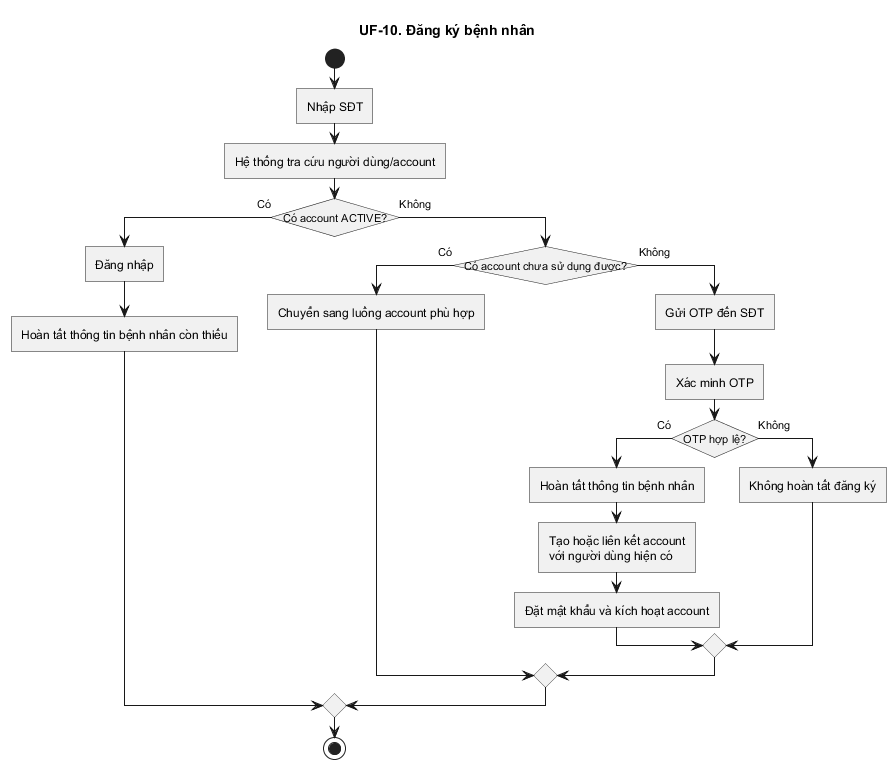
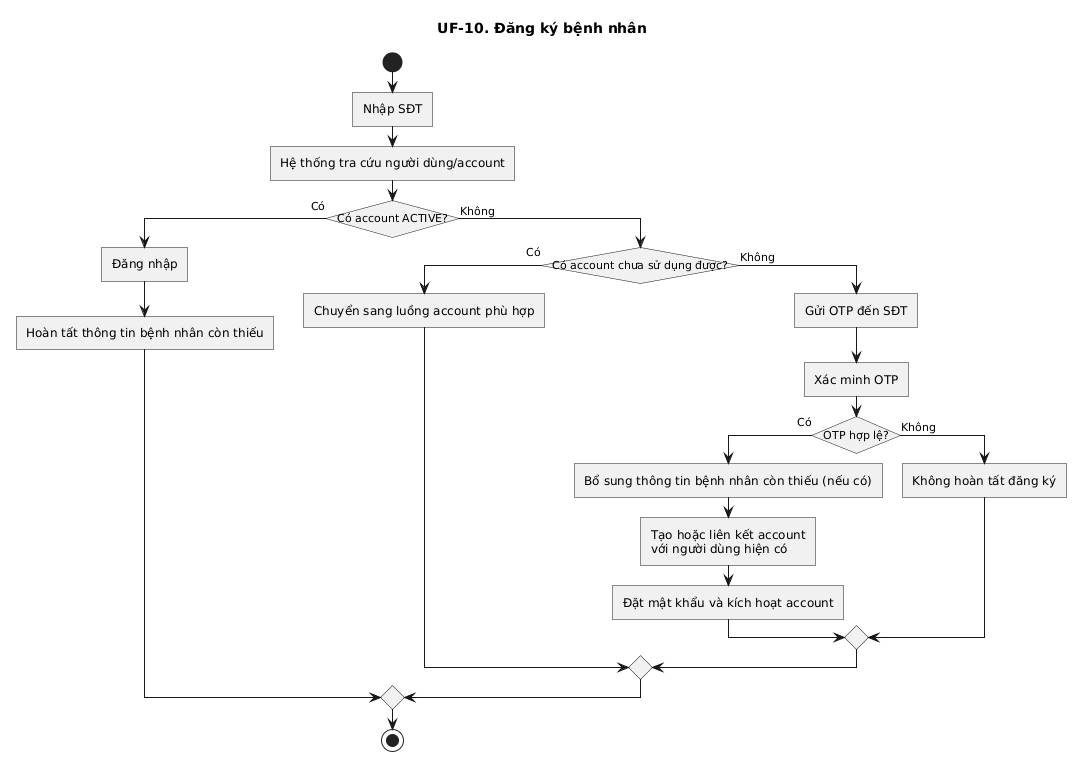
update phrasing and fix NFR traceability

diff --git a/doc/NFR.md b/doc/NFR.md
@@ -4,7 +4,7 @@
 
 | Mã | Nội dung yêu cầu | Chỉ tiêu cụ thể |
 | --- | --- | --- |
-| NFR-001 | Thời gian phản hồi báo cáo | Báo cáo FR-M04-001 hiển thị trong dưới 2 giây trên bộ dữ liệu kiểm thử gồm 1.000 lịch hẹn và 5 bác sĩ. |
+| NFR-001 | Thời gian phản hồi báo cáo | Báo cáo FR-M04-001 phải hiển thị kết quả trong dưới 2 giây. |
 
 ### 3.2.2. Yêu cầu về bảo mật (Security)
 
@@ -12,33 +12,21 @@
 | --- | --- | --- |
 | NFR-002 | Kiểm soát truy cập theo vai trò | Mọi yêu cầu ngoài phạm vi các vai trò được gán theo FR-M01-004 phải bị từ chối và không được làm lộ hoặc thay đổi dữ liệu trái quyền. |
 | NFR-003 | Giới hạn dữ liệu bệnh nhân | Bác sĩ chỉ truy cập thông tin cần thiết của bệnh nhân có lịch được phân công cho chính bác sĩ đó; dữ liệu bệnh nhân ngoài phạm vi này phải bị từ chối. |
-| NFR-012 | Bảo vệ thông tin đăng nhập | Mật khẩu không được lưu hoặc trả về ở dạng văn bản rõ. |
-| NFR-013 | Xác minh số điện thoại | OTP dùng để kích hoạt tài khoản, khôi phục mật khẩu hoặc kích hoạt lại tài khoản phải có thời hạn ngắn, chỉ dùng một lần và chỉ hợp lệ cho đúng mục đích đã cấp. OTP sai, hết hạn hoặc đã sử dụng không được phép hoàn tất thao tác tương ứng. |
+| NFR-004 | Bảo vệ thông tin đăng nhập | Mật khẩu không được lưu hoặc trả về ở dạng văn bản rõ. |
+| NFR-005 | Xác minh số điện thoại | OTP dùng để kích hoạt tài khoản, khôi phục mật khẩu hoặc kích hoạt lại tài khoản phải có thời hạn cấu hình được, chỉ dùng một lần, chỉ hợp lệ cho đúng mục đích đã cấp và có giới hạn số lần xác minh sai. OTP sai, hết hạn, đã sử dụng, sai mục đích hoặc vượt giới hạn thử không được phép hoàn tất thao tác tương ứng. |
 
 ### 3.2.3. Yêu cầu về độ tin cậy (Reliability)
 
 | Mã | Nội dung yêu cầu | Chỉ tiêu cụ thể |
 | --- | --- | --- |
-| NFR-004 | Không lưu lịch chồng lấn | Sau thao tác tạo, xác nhận hoặc đổi lịch, không tồn tại hai lịch `PENDING`/`CONFIRMED` bị overlap cho cùng bệnh nhân. Với bác sĩ, `PENDING` đã gán bác sĩ và `CONFIRMED` là các lịch giữ slot và không được overlap. Với hai yêu cầu xung đột đồng thời, tối đa một yêu cầu được ghi thành công. |
-| NFR-005 | Đủ dấu vết thay đổi | 100% thay đổi trạng thái, bác sĩ hoặc thời gian thành công phải có người thực hiện và thời điểm; thao tác bị từ chối không tạo lịch sử. |
-| NFR-006 | Thông báo lịch hẹn không phụ thuộc kênh ngoài | Các sự kiện xác nhận, đổi và hủy lịch phải có thông báo trong ứng dụng; email/SMS thông báo lịch hẹn không phải điều kiện để hoàn tất workflow. |
+| NFR-006 | Không lưu lịch chồng lấn | Sau thao tác tạo, xác nhận hoặc đổi lịch, không tồn tại hai lịch `PENDING`/`CONFIRMED` bị overlap cho cùng bệnh nhân. Với bác sĩ, `PENDING` đã gán bác sĩ và `CONFIRMED` là các lịch giữ slot và không được overlap. Với hai yêu cầu xung đột đồng thời, tối đa một yêu cầu được ghi thành công. |
+| NFR-007 | Đủ dấu vết thay đổi | 100% thay đổi trạng thái, bác sĩ hoặc thời gian thành công phải có người thực hiện và thời điểm; thao tác bị từ chối không tạo lịch sử. |
+| NFR-008 | Thông báo lịch hẹn không phụ thuộc kênh ngoài | Các sự kiện xác nhận, đổi và hủy lịch phải có thông báo trong ứng dụng; email/SMS thông báo lịch hẹn không phải điều kiện để hoàn tất workflow. |
 
 ### 3.2.4. Yêu cầu về khả dụng (Usability)
 
 | Mã | Nội dung yêu cầu | Chỉ tiêu cụ thể |
 | --- | --- | --- |
-| NFR-007 | Thời gian thao tác của lễ tân | Khi đã có đủ thông tin và phương án hợp lệ, lễ tân hoàn tất tạo hoặc đổi lịch trong không quá 60 giây tương tác trên hệ thống. |
-| NFR-008 | Hoàn tất workflow | Các luồng đăng nhập, đăng ký/kích hoạt, khôi phục mật khẩu, kích hoạt lại tài khoản, đặt, xác nhận, đổi, hủy và hoàn thành lịch phải thực hiện được từ đầu đến cuối mà không tạo hồ sơ trùng, mất dữ liệu hoặc vi phạm phân quyền/ràng buộc lịch. |
-| NFR-009 | Một ứng dụng web | Năm vai trò thực hiện các chức năng của mình trên cùng một ứng dụng web; MVP không yêu cầu ứng dụng mobile native riêng. |
-
-### 3.2.5. Quy mô kiểm chứng MVP
-
-| Mã | Nội dung yêu cầu | Chỉ tiêu cụ thể |
-| --- | --- | --- |
-| NFR-010 | Quy mô kiểm chứng MVP | Baseline hiệu năng được kiểm trên 1.000 lịch hẹn và 5 bác sĩ; đây là quy mô kiểm thử của MVP, không phải cam kết production. |
-
-### 3.2.6. Yêu cầu về bảo trì (Maintainability)
-
-| Mã | Nội dung yêu cầu | Chỉ tiêu cụ thể |
-| --- | --- | --- |
-| NFR-011 | Theo dõi lỗi đến khi xử lý | Mỗi lỗi phát hiện khi kiểm thử FR phải có mã, mô tả và kết quả xử lý; chỉ đóng khi kết quả sửa đã được kiểm tra lại. |
+| NFR-009 | Thời gian thao tác của lễ tân | Khi đã có đủ thông tin và phương án hợp lệ, lễ tân hoàn tất tạo hoặc đổi lịch trong không quá 60 giây tương tác trên hệ thống. |
+| NFR-010 | Hoàn tất workflow | Các luồng đăng nhập, đăng ký/kích hoạt, khôi phục mật khẩu, kích hoạt lại tài khoản, đặt, xác nhận, đổi, hủy và hoàn thành lịch phải thực hiện được từ đầu đến cuối mà không tạo hồ sơ trùng, mất dữ liệu hoặc vi phạm phân quyền/ràng buộc lịch. |
+| NFR-011 | Một ứng dụng web | Năm vai trò thực hiện các chức năng của mình trên cùng một ứng dụng web; MVP không yêu cầu ứng dụng mobile native riêng. |

diff --git a/doc/FR.md b/doc/FR.md
@@ -22,7 +22,7 @@
 | FR-M02-005 | Gán bác sĩ và xác nhận | Lễ tân xác nhận lịch `PENDING`. Nếu lịch chưa có bác sĩ, lễ tân phải chọn một bác sĩ phù hợp; hệ thống kiểm tra lại điều kiện lịch trước khi chuyển sang `CONFIRMED`. | Cao |
 | FR-M02-006 | Tạo lịch đã xác nhận | Lễ tân được tạo trực tiếp lịch `CONFIRMED` khi đã có hồ sơ bệnh nhân, dịch vụ, bác sĩ và thời gian hợp lệ. Các điều kiện về năng lực, ca làm việc và xung đột lịch phải được kiểm tra trước khi lưu. | Trung bình |
 | FR-M02-007 | Chặn trùng lịch | Hệ thống không cho phép hai lịch `PENDING`/`CONFIRMED` của cùng bệnh nhân bị chồng lấn và không cho phép một bác sĩ có hai lịch đang giữ slot bị chồng lấn. Quy tắc áp dụng khi tạo, xác nhận và đổi lịch. | Cao |
-| FR-M02-008 | Ràng buộc khung giờ của lịch hẹn | Lịch có bác sĩ chỉ hợp lệ khi toàn bộ thời lượng khám nằm trong ca làm việc và không giao với khoảng thời gian bác sĩ không sẵn sàng. Không bắt buộc khoảng đệm giữa hai lịch liền nhau. | Cao |
+| FR-M02-008 | Ràng buộc khung giờ của lịch hẹn | Khi tạo, gán bác sĩ, xác nhận hoặc đổi lịch, toàn bộ thời lượng lịch hẹn phải nằm trong ca làm việc của bác sĩ, không giao với khoảng không sẵn sàng và không xung đột với lịch đang hoạt động. | Cao |
 | FR-M02-009 | Hoàn thành lịch hẹn | Bác sĩ được gán hoặc lễ tân được chuyển lịch `CONFIRMED` sang `COMPLETED` khi ghi nhận buổi khám thực tế đã hoàn tất. Hệ thống không tự chuyển lịch sang `COMPLETED` chỉ vì đã qua thời gian dự kiến; `COMPLETED` là trạng thái kết thúc. | Cao |
 | FR-M02-010 | Hủy lịch | Bệnh nhân được hủy lịch `PENDING`/`CONFIRMED` của mình trước giờ khám ít nhất 2 giờ. Trong 2 giờ cuối, lễ tân có thể hỗ trợ hủy. Lịch `COMPLETED` hoặc `CANCELLED` không được hủy lại. | Cao |
 | FR-M02-011 | Đổi bác sĩ hoặc giờ khám | Lễ tân được đổi bác sĩ hoặc thời gian trên cùng một lịch đang ở trạng thái `PENDING` hoặc `CONFIRMED`. Hệ thống kiểm tra lại các điều kiện lịch trước khi cập nhật; nếu không hợp lệ thì dữ liệu cũ được giữ nguyên. | Cao |
@@ -36,7 +36,7 @@
 | FR-M03-001 | Quản lý ca làm việc | Quản lý phòng khám tạo và sửa ca làm việc của bác sĩ theo ngày và khoảng giờ. Các ca của cùng một bác sĩ không được chồng lấn; MVP không yêu cầu mẫu ca lặp tự động theo tuần. | Cao |
 | FR-M03-002 | Đánh dấu không sẵn sàng | Bác sĩ được đánh dấu ngày hoặc khoảng thời gian không sẵn sàng. Dữ liệu này được dùng khi tính khung giờ trống; việc sửa ca làm việc chính thức thuộc quyền Quản lý phòng khám. | Cao |
 | FR-M03-003 | Gửi thông báo trong hệ thống | Hệ thống tạo thông báo trong ứng dụng khi lịch được xác nhận, đổi bác sĩ/thời gian hoặc bị hủy. Người nhận gồm bệnh nhân và bác sĩ liên quan theo từng sự kiện; không có nhắc lịch tự động trước giờ khám trong MVP. | Trung bình |
-| FR-M03-004 | Xử lý lịch bị ảnh hưởng bởi lịch bác sĩ | Khi thay đổi ca hoặc thời gian không sẵn sàng làm một lịch `CONFIRMED` không còn phù hợp, hệ thống xác định lịch bị ảnh hưởng để lễ tân đổi hoặc hủy. Hệ thống không tự động phân bổ lại lịch. | Cao |
+| FR-M03-004 | Xử lý lịch bị ảnh hưởng bởi lịch bác sĩ | Khi thay đổi ca làm việc hoặc bác sĩ khai báo không sẵn sàng làm ảnh hưởng đến lịch PENDING đã gán bác sĩ hoặc CONFIRMED, hệ thống phải xác định các lịch bị ảnh hưởng để Lễ tân điều phối; không tự động hủy, đổi giờ hoặc đổi bác sĩ. | Cao |
 
 ### 3.1.4. Module Báo cáo thống kê cơ bản (M04)
 

diff --git a/doc/database-design/Data_Dictionary.md b/doc/database-design/Data_Dictionary.md
@@ -101,7 +101,7 @@ Quan hệ nhiều-nhiều giữa Bác sĩ và Dịch vụ.
 **Ràng buộc chính:**
 - `CONFIRMED` và `COMPLETED` phải có `doctor_id`.
 - Doctor được gán phải thực hiện được Service tương ứng.
-- Lịch có Doctor phải nằm trong ca làm việc và không giao với khoảng không sẵn sàng.
+- Khi tạo, gán Doctor, xác nhận hoặc đổi lịch, lịch có Doctor phải nằm trong ca làm việc và không giao với khoảng không sẵn sàng.
 - Lịch `PENDING`/`CONFIRMED` không được overlap theo bệnh nhân; các lịch đang giữ slot của cùng Doctor không được overlap.
 
 ## 10. `appointment_history`

diff --git a/doc/User_Flow.md b/doc/User_Flow.md
@@ -108,7 +108,7 @@ Bác sĩ khai báo khoảng thời gian không sẵn sàng; các lịch bị ả
 | UF-06 Hủy lịch | FR-M02-010 | NFR-008 |
 | UF-07 Tạo lịch đã xác nhận | FR-M01-005, FR-M02-006, FR-M02-007, FR-M02-008 | NFR-004, NFR-007 |
 | UF-08 Hoàn thành lịch | FR-M02-009 | NFR-008 |
-| UF-09 Báo cáo | FR-M04-001 | NFR-001, NFR-002, NFR-010 |
+| UF-09 Báo cáo | FR-M04-001 | NFR-001, NFR-002 |
 | UF-10 Đăng ký bệnh nhân | FR-M01-001 | NFR-008, NFR-012, NFR-013 |
 | UF-11 Kích hoạt tài khoản nhân viên | FR-M01-002 | NFR-008, NFR-012, NFR-013 |
 | UF-12 Khôi phục mật khẩu | FR-M01-006 | NFR-008, NFR-012, NFR-013 |
